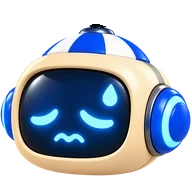
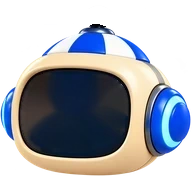
IAmiguinho M6: olhos vivos (rosto em vetor que pisca, olha e muda de expressão)
Claude-Session: https://claude.ai/code/session_01EzS9DxgjdBzP7RojM8YLwB

Changed region(s): [[0.0938, 0.4261, 0.6875, 0.8523]]

diff --git a/src/lib/iamiguinhoRosto.ts b/src/lib/iamiguinhoRosto.ts
@@ -1,0 +1,78 @@
+/**
+ * O rosto do IAmiguinho em vetor (a luz azul-clara da tela): as 12 expressões da ficha, desenhadas para caber na tela
+ * das imagens finais (o vidro foi limpo por art/iamiguinho/limpar-tela.py). Os olhos ficam num grupo próprio, para
+ * piscar e olhar para os lados sem redesenhar a expressão. viewBox 200 × 140, centro da tela em (100, 70).
+ */
+export type Expressao = 'sorriso-confiante' | 'feliz' | 'comemorando' | 'orgulhoso' | 'curioso' | 'pensando' | 'surpreso' | 'sem-jeito' | 'tonto' | 'perdido' | 'sonolento' | 'piscando';
+export const EXPRESSOES: Expressao[] = ['sorriso-confiante', 'feliz', 'comemorando', 'orgulhoso', 'curioso', 'pensando', 'surpreso', 'sem-jeito', 'tonto', 'perdido', 'sonolento', 'piscando'];
+
+const EX = 56, DX = 144, OY = 54, BY = 96, SW = 15;
+const f = (n: number) => n.toFixed(1);
+const arco = (cx: number, cy: number, r = 22, up = true) => `<path d="M${f(cx - r)} ${f(cy + (up ? 8 : -8))}Q${f(cx)} ${f(cy + (up ? -r * 1.2 : r * 1.2))} ${f(cx + r)} ${f(cy + (up ? 8 : -8))}" fill="none" stroke-width="${SW}" stroke-linecap="round"/>`;
+const meiaLua = (cx: number, cy: number, w = 64, h = 30) => `<path d="M${f(cx - w / 2)} ${f(cy - h / 2)}H${f(cx + w / 2)}Q${f(cx + w / 2)} ${f(cy + h * 0.95)} ${f(cx)} ${f(cy + h * 0.95)}Q${f(cx - w / 2)} ${f(cy + h * 0.95)} ${f(cx - w / 2)} ${f(cy - h / 2)}Z" stroke="none"/>`;
+const ponto = (cx: number, cy: number, r = 10) => `<circle cx="${f(cx)}" cy="${f(cy)}" r="${r}" stroke="none"/>`;
+const anel = (cx: number, cy: number, r = 20) => `<circle cx="${f(cx)}" cy="${f(cy)}" r="${r}" fill="none" stroke-width="${SW - 3}"/>`;
+const linha = (x1: number, y1: number, x2: number, y2: number, w = SW) => `<path d="M${f(x1)} ${f(y1)}L${f(x2)} ${f(y2)}" fill="none" stroke-width="${w}" stroke-linecap="round"/>`;
+const estrela = (cx: number, cy: number, r = 24, pts = 5, ins = 0.45, rot = -90) => {
+  let d = '';
+  for (let i = 0; i < pts * 2; i++) { const a = ((rot + (i * 180) / pts) * Math.PI) / 180, rr = i % 2 ? r * ins : r; d += `${i ? 'L' : 'M'}${f(cx + Math.cos(a) * rr)} ${f(cy + Math.sin(a) * rr)}`; }
+  return `<path d="${d}Z" stroke="none" stroke-linejoin="round"/>`;
+};
+const brilho = (cx: number, cy: number, r = 10) => estrela(cx, cy, r, 4, 0.28, 0);
+const espiral = (cx: number, cy: number, r = 22) => {
+  let d = '';
+  for (let i = 0; i <= 60; i++) { const t = i / 60, a = t * 2.1 * Math.PI * 2, rr = 2 + t * (r - 2); d += `${i ? 'L' : 'M'}${f(cx + Math.cos(a) * rr)} ${f(cy + Math.sin(a) * rr)}`; }
+  return `<path class="iam-espiral" d="${d}" fill="none" stroke-width="7" stroke-linecap="round" style="transform-origin:${cx}px ${cy}px"/>`;
+};
+const interrogacao = (cx: number, cy: number) => `<path d="M${cx - 12} ${cy - 12}Q${cx - 12} ${cy - 28} ${cx + 1} ${cy - 28}Q${cx + 15} ${cy - 28} ${cx + 15} ${cy - 15}Q${cx + 15} ${cy - 6} ${cx + 4} ${cy}Q${cx} ${cy + 4} ${cx} ${cy + 10}" fill="none" stroke-width="${SW - 4}" stroke-linecap="round" stroke-linejoin="round"/>${ponto(cx, cy + 24, 6)}`;
+const onda = (cx: number, cy: number, w = 50, a = 7) => `<path d="M${cx - w / 2} ${cy}q${w / 8} ${-a} ${w / 4} 0t${w / 4} 0t${w / 4} 0t${w / 4} 0" fill="none" stroke-width="${SW - 4}" stroke-linecap="round"/>`;
+const gota = (cx: number, cy: number) => `<path d="M${cx} ${cy - 13}Q${cx + 9} ${cy} ${cx + 8} ${cy + 5}A8 8 0 0 1 ${cx - 8} ${cy + 5}Q${cx - 9} ${cy} ${cx} ${cy - 13}Z" stroke="none"/>`;
+const zz = (x: number, y: number, s = 1) => `<path d="M${x} ${y}h${12 * s}l${-12 * s} ${12 * s}h${12 * s}" fill="none" stroke-width="${5 * s}" stroke-linecap="round" stroke-linejoin="round"/>`;
+
+/** Cada expressão: olhos (piscam e olham para os lados) e o resto (boca e detalhes). */
+const FORMAS: Record<Expressao, { o: () => string; r: () => string }> = {
+  'sorriso-confiante': { o: () => arco(EX, OY) + arco(DX, OY), r: () => meiaLua(100, BY) },
+  feliz: { o: () => arco(EX, OY - 2, 24) + arco(DX, OY - 2, 24), r: () => meiaLua(100, BY - 2, 78, 36) },
+  comemorando: { o: () => estrela(EX, OY - 2) + estrela(DX, OY - 2), r: () => meiaLua(100, BY, 72, 34) },
+  orgulhoso: { o: () => arco(EX, OY) + arco(DX, OY), r: () => brilho(DX + 36, OY - 32, 11) + `<path d="M70 ${BY - 8}Q104 ${BY + 22} 134 ${BY - 14}" fill="none" stroke-width="${SW}" stroke-linecap="round"/>` },
+  curioso: { o: () => anel(EX, OY, 21) + ponto(EX, OY, 7) + ponto(DX, OY + 2, 11), r: () => `<circle cx="106" cy="${BY + 2}" r="9" fill="none" stroke-width="9"/>` },
+  pensando: { o: () => '', r: () => `<g class="iam-pensa">${ponto(70, OY + 4, 11)}${ponto(100, OY + 4, 11)}${ponto(130, OY + 4, 11)}</g>` + linha(88, BY + 6, 118, BY + 2, 10) },
+  surpreso: { o: () => anel(EX, OY - 2, 22) + anel(DX, OY - 2, 22), r: () => `<ellipse cx="100" cy="${BY + 4}" rx="11" ry="14" fill="none" stroke-width="10"/>` },
+  'sem-jeito': { o: () => arco(EX, OY - 4, 20, false) + arco(DX, OY - 4, 20, false), r: () => onda(100, BY + 4, 48, 6) + gota(DX + 38, OY - 30) },
+  tonto: { o: () => '', r: () => espiral(EX, OY, 24) + espiral(DX, OY, 24) + onda(100, BY + 6, 52, 8) },
+  perdido: { o: () => '', r: () => interrogacao(EX, OY) + interrogacao(DX, OY) + linha(90, BY + 8, 110, BY + 8, 10) },
+  sonolento: { o: () => '', r: () => linha(EX - 20, OY + 6, EX + 20, OY + 6) + linha(DX - 20, OY + 6, DX + 20, OY + 6) + `<ellipse cx="100" cy="${BY + 6}" rx="9" ry="6" stroke="none"/>` + zz(DX + 26, OY - 32, 1) + zz(DX + 42, OY - 46, 0.7) },
+  piscando: { o: () => '', r: () => arco(EX, OY) + ponto(DX, OY + 2, 12) + meiaLua(100, BY, 62, 28) },
+};
+/** Olhos fechados (o meio da piscada): dois traços. */
+const FECHADOS = linha(EX - 18, OY + 4, EX + 18, OY + 4) + linha(DX - 18, OY + 4, DX + 18, OY + 4);
+
+/**
+ * O SVG interno (sem a tag <svg>) da expressão: a luz por cima do brilho borrado. Os olhos ficam em
+ * <g class="iam-olhos"> (o CSS faz piscar e olhar). id: um id único na página para o filtro do brilho.
+ */
+export function rosto(e: Expressao, id = 'iam-brilho', opts: { fechados?: boolean } = {}): string {
+  const fma = FORMAS[e] ?? FORMAS['sorriso-confiante'];
+  const olhos = fma.o();
+  const g = (olhos ? `<g class="iam-olhos">${opts.fechados ? FECHADOS : olhos}</g>` : '') + fma.r();
+  return `<defs><filter id="${id}" x="-40%" y="-40%" width="180%" height="180%"><feGaussianBlur stdDeviation="6"/></filter></defs>`
+    + `<g fill="#9CEBFF" stroke="#9CEBFF"><g filter="url(#${id})" opacity=".9" fill="#38C8FF" stroke="#38C8FF">${g}</g>${g}</g>`;
+}
+
+/** A expressão de cada imagem quando nada está acontecendo (as caras têm o nome da expressão). */
+const POSE_EXPRESSAO: Record<string, Expressao> = {
+  acenando: 'feliz', atrasado: 'surpreso', cabo: 'sem-jeito', controle: 'feliz', dormindo: 'sonolento', espiando: 'sorriso-confiante',
+  'espiando-placa': 'sorriso-confiante', heroi: 'orgulhoso', mapa: 'perdido', pacote: 'sem-jeito', placa: 'feliz', planando: 'sorriso-confiante', trofeu: 'comemorando',
+};
+export function expressaoDe(img: string): Expressao {
+  if (img.startsWith('cara-')) { const e = img.slice(5) as Expressao; return EXPRESSOES.includes(e) ? e : 'sorriso-confiante'; }
+  return POSE_EXPRESSAO[img.replace(/^pose-/, '')] ?? 'sorriso-confiante';
+}
+
+/** Às vezes, sem motivo, ele faz outra cara por um instante (e volta). Nunca dormindo. */
+const DE_PASSAGEM: Partial<Record<Expressao, Expressao[]>> = {
+  'sorriso-confiante': ['piscando', 'feliz', 'curioso'], feliz: ['piscando', 'comemorando', 'sorriso-confiante'], comemorando: ['feliz', 'piscando'],
+  orgulhoso: ['piscando', 'sorriso-confiante'], curioso: ['pensando', 'surpreso'], pensando: ['curioso', 'perdido'], surpreso: ['sem-jeito', 'curioso'],
+  'sem-jeito': ['piscando', 'pensando'], perdido: ['pensando', 'sem-jeito'], piscando: ['sorriso-confiante', 'feliz'],
+};
+export const dePassagem = (e: Expressao, sorte = Math.random()): Expressao | null => { const l = DE_PASSAGEM[e]; return l ? l[Math.floor(sorte * l.length) % l.length] : null; };

diff --git a/src/components/IAmiguinho.tsx b/src/components/IAmiguinho.tsx
@@ -1,37 +1,65 @@
 /**
  * IAmiguinho na tela: o mascote de interface (telas vazias, 404, erro, carregamento), o balão de cameo no canto, o
  * cartão espiando e a proteção contra erro que mostra ele com o cabo na mão. As falas e as regras estão em
- * lib/iamiguinho. M6: a hélice gira de verdade (camadas separadas em public/brand/iamiguinho/anim), ele respira, um
- * toque faz a hélice engasgar, cinco deixam ele tonto, e nas épocas de festa ele aparece enfeitado.
+ * lib/iamiguinho. M6: a hélice gira de verdade (camadas separadas em public/brand/iamiguinho/anim), ele respira, o
+ * rosto é vivo (pisca, olha para os lados e muda de expressão), um toque faz a hélice engasgar, cinco deixam ele tonto,
+ * e nas épocas de festa ele aparece enfeitado.
  */
-import { Component, useEffect, useRef, useState, type CSSProperties, type ReactNode } from 'react';
+import { Component, useEffect, useId, useRef, useState, type CSSProperties, type ReactNode } from 'react';
 import { createPortal } from 'react-dom';
 import { useStore } from '../data/store';
 import { CARA, CUTUCAR, POSE, TONTO, epocaAtual, falaDaBiblioteca, liberarCameo, pedirCameo, sortear, type Cameo, type Epoca, type Fatos, type Interface } from '../lib/iamiguinho';
 import { HELICE } from '../lib/iamiguinhoHelice';
+import { TELA } from '../lib/iamiguinhoTela';
+import { dePassagem, expressaoDe, rosto, type Expressao } from '../lib/iamiguinhoRosto';
 
 const useModo = () => useStore((s) => s.prefs.iamiguinho ?? 'normal');
 
 /* ---- A figura animada ------------------------------------------------------------------------------------------ */
 
 type Estado = 'normal' | 'engasgo' | 'tonto';
+const movimentoReduzido = () => {
+  try { return document.documentElement.dataset.motion === 'reduzidas' || window.matchMedia('(prefers-reduced-motion: reduce)').matches; } catch { return false; }
+};
 /**
- * Uma imagem dele (pose-* ou cara-*) com a hélice girando por cima do corpo, no eixo e na inclinação de cada imagem.
- * Com "animações reduzidas" fica parada, igual à imagem original. Com onCutucar, vira botão: um toque engasga a hélice
- * (trava, dá um tranco e solta fumaça); cinco toques em poucos segundos deixam ele tonto.
+ * Uma imagem dele (pose-* ou cara-*) com a hélice girando por cima do corpo, no eixo e na inclinação de cada imagem, e
+ * o rosto desenhado na tela: pisca, olha para os lados, de vez em quando faz outra cara, fica curioso com o mouse em
+ * cima, surpreso com um toque e tonto com cinco. Com "animações reduzidas" fica parado (o rosto só muda nos toques).
+ * expressao troca a cara de repouso da imagem.
  */
-export function Figura({ img, className = '', width, height, parada = false, enfeite = true, onCutucar, lazy = true, alt = '' }: {
+export function Figura({ img, className = '', width, height, parada = false, enfeite = true, onCutucar, lazy = true, alt = '', expressao }: {
   img: string; className?: string; width: number; height: number; parada?: boolean; enfeite?: boolean;
-  onCutucar?: (tonto: boolean) => void; lazy?: boolean; alt?: string;
+  onCutucar?: (tonto: boolean) => void; lazy?: boolean; alt?: string; expressao?: Expressao;
 }) {
   const [estado, setEstado] = useState<Estado>('normal');
+  const [cara, setCara] = useState<Expressao | null>(null);
   const toques = useRef<number[]>([]);
   const timer = useRef<ReturnType<typeof setTimeout>>();
   useEffect(() => () => clearTimeout(timer.current), []);
   const [epoca] = useState<Epoca | null>(() => (enfeite ? epocaAtual() : null));
-  const src = estado === 'tonto' && img.startsWith('cara-') ? 'cara-tonto' : img;
+  const [atraso] = useState(() => `${(-Math.random() * 9).toFixed(2)}s`);
+  const fid = `iam-b${useId().replace(/[^a-zA-Z0-9_-]/g, '')}`;
+  const src = img;
   const h = HELICE[src];
+  const t = h ? TELA[src] : undefined;
+  const base = expressao ?? expressaoDe(src);
+  // De vez em quando, outra cara por um instante.
+  useEffect(() => {
+    if (!t || parada || base === 'sonolento') return;
+    let volta: ReturnType<typeof setTimeout> | undefined;
+    let proximo: ReturnType<typeof setTimeout>;
+    const agenda = () => {
+      proximo = setTimeout(() => {
+        const e = document.visibilityState === 'visible' && !movimentoReduzido() ? dePassagem(base) : null;
+        if (e) { setCara((c) => c ?? e); volta = setTimeout(() => setCara((c) => (c === e ? null : c)), 1900); }
+        agenda();
+      }, 7000 + Math.random() * 8000);
+    };
+    agenda();
+    return () => { clearTimeout(proximo); clearTimeout(volta); };
+  }, [t, parada, base]);
   const tap = () => {
+    if (estado === 'tonto') return; // deixa ele se recuperar
     const agora = Date.now();
     toques.current = [...toques.current.filter((t) => agora - t < 4000), agora];
     const tonto = toques.current.length >= 5;
@@ -41,19 +69,26 @@ export function Figura({ img, className = '', width, height, parada = false, enf
     timer.current = setTimeout(() => setEstado('normal'), tonto ? 2800 : 1400);
     onCutucar?.(tonto);
   };
+  const espiar = (e: { pointerType: string }) => { if (e.pointerType === 'mouse' && !parada && base !== 'sonolento') setCara(base === 'curioso' ? 'surpreso' : 'curioso'); };
+  const face: Expressao = estado === 'tonto' ? 'tonto' : estado === 'engasgo' ? 'surpreso' : (cara ?? base);
   const imgProps = { alt: '', width, height, decoding: 'async' as const, loading: lazy ? ('lazy' as const) : undefined, draggable: false };
   const corpo = h ? (
     <>
       <img className="iam-fig__corpo" src={`/brand/iamiguinho/anim/${src}-corpo.webp`} {...imgProps} />
       <img className="iam-fig__helice" src={`/brand/iamiguinho/anim/${src}-helice.webp`} {...imgProps}
         style={{ transformOrigin: `${h.x}% ${h.y}%`, '--iam-a': `${h.a}deg` } as CSSProperties} />
+      {t && (
+        <svg key={face} className="iam-rosto" viewBox="0 0 200 140" aria-hidden="true" dangerouslySetInnerHTML={{ __html: rosto(face, fid) }}
+          style={{ left: `${t.x}%`, top: `${t.y}%`, width: `${t.w}%`, transform: `translate(-50%, -50%) rotate(${t.a}deg)`, '--iam-atraso': atraso } as CSSProperties} />
+      )}
       {estado === 'engasgo' && <span className="iam-fumaca" style={{ left: `${h.x}%`, top: `${h.y}%` }} aria-hidden="true"><i /><i /><i /></span>}
     </>
   ) : <img className="iam-fig__corpo" src={`/brand/iamiguinho/${src}.webp`} {...imgProps} />;
   const cls = `iam-fig is-${estado}${parada ? ' is-parada' : ''} ${className}`;
   const conteudo = <>{corpo}{epoca && <Enfeite epoca={epoca} />}</>;
-  if (!onCutucar) return <span className={cls} role={alt ? 'img' : undefined} aria-label={alt || undefined} aria-hidden={alt ? undefined : true}>{conteudo}</span>;
-  return <button type="button" className={`${cls} iam-fig--btn`} onClick={tap} aria-label={alt ? `${alt}. Toque para cutucar o IAmiguinho` : 'Cutucar o IAmiguinho'}>{conteudo}</button>;
+  const olhar = { onPointerEnter: espiar, onPointerLeave: () => setCara(null) };
+  if (!onCutucar) return <span className={cls} role={alt ? 'img' : undefined} aria-label={alt || undefined} aria-hidden={alt ? undefined : true} {...olhar}>{conteudo}</span>;
+  return <button type="button" className={`${cls} iam-fig--btn`} onClick={tap} {...olhar} aria-label={alt ? `${alt}. Toque para cutucar o IAmiguinho` : 'Cutucar o IAmiguinho'}>{conteudo}</button>;
 }
 
 /** O enfeite da época, desenhado ao lado dele (nunca por cima do rosto). */

diff --git a/src/styles/iamiguinho.css b/src/styles/iamiguinho.css
@@ -115,6 +115,25 @@ html[data-motion='reduzidas'] .iam-espia__pose, html[data-motion='reduzidas'] .i
 .iam-pref .iam-fig { width: 56px; }
 .ar-buddy .iam-fig { width: 40px; }
 .iam-espia__pose.iam-fig { animation: iam-espia 0.6s cubic-bezier(0.2, 0.8, 0.3, 1.2) both; }
+.iam-rosto { position: absolute; height: auto; aspect-ratio: 200 / 140; overflow: visible; pointer-events: none; animation: iam-liga 0.2s ease-out; }
+.iam-rosto .iam-olhos { transform-box: fill-box; transform-origin: center; animation: iam-olhar 9s ease-in-out infinite; animation-delay: var(--iam-atraso, 0s); }
+.iam-rosto .iam-pensa circle { transform-box: fill-box; transform-origin: center; animation: iam-pensa 1.1s ease-in-out infinite; }
+.iam-rosto .iam-pensa circle:nth-child(2) { animation-delay: 0.15s; }
+.iam-rosto .iam-pensa circle:nth-child(3) { animation-delay: 0.3s; }
+.iam-rosto .iam-espiral { animation: iam-espiral 1.2s linear infinite; }
+.iam-fig.is-parada .iam-rosto .iam-olhos { animation: none; }
+.iam-perfil__momentos li:not(:hover) .iam-rosto * { animation-play-state: paused; }
+@keyframes iam-liga { from { opacity: 0.35; filter: brightness(1.6); } to { opacity: 1; filter: none; } }
+@keyframes iam-olhar {
+  0%, 27%, 33%, 47% { transform: translate(0, 0) scaleY(1); }
+  30% { transform: translate(0, 0) scaleY(0.1); }
+  52%, 61% { transform: translate(-6px, 0) scaleY(1); }
+  66%, 74% { transform: translate(6px, 0) scaleY(1); }
+  79%, 87%, 93%, 100% { transform: translate(0, 0) scaleY(1); }
+  90% { transform: translate(0, 0) scaleY(0.1); }
+}
+@keyframes iam-pensa { 0%, 60%, 100% { transform: translateY(0); opacity: 0.55; } 30% { transform: translateY(-9px); opacity: 1; } }
+@keyframes iam-espiral { to { transform: rotate(360deg); } }
 @keyframes iam-respira { 0%, 100% { transform: translateY(0); } 50% { transform: translateY(-3px); } }
 @keyframes iam-gira {
   0% { transform: rotate(var(--iam-a, 0deg)) scaleX(1) rotate(calc(var(--iam-a, 0deg) * -1)); }

diff --git a/src/lib/iamiguinhoTela.ts b/src/lib/iamiguinhoTela.ts
@@ -1,0 +1,28 @@
+/** Gerado por art/iamiguinho/limpar-tela.py: a tela do rosto em cada imagem (centro e largura em %, inclinação em graus). */
+export const TELA: Record<string, { x: number; y: number; w: number; a: number }> = {
+  'cara-comemorando': { x: 39.58, y: 63.66, w: 58.33, a: 0.0 },
+  'cara-curioso': { x: 40.89, y: 63.74, w: 58.85, a: 0.0 },
+  'cara-feliz': { x: 40.1, y: 63.87, w: 58.33, a: 0.0 },
+  'cara-orgulhoso': { x: 39.58, y: 63.37, w: 58.33, a: 0.0 },
+  'cara-pensando': { x: 40.1, y: 63.79, w: 58.33, a: 0.0 },
+  'cara-perdido': { x: 39.84, y: 63.35, w: 58.85, a: 0.0 },
+  'cara-piscando': { x: 39.84, y: 63.87, w: 57.81, a: 0.0 },
+  'cara-sem-jeito': { x: 38.54, y: 63.92, w: 57.29, a: 0.0 },
+  'cara-sonolento': { x: 39.84, y: 64.0, w: 58.85, a: 0.0 },
+  'cara-sorriso-confiante': { x: 40.89, y: 63.47, w: 58.85, a: 0.0 },
+  'cara-surpreso': { x: 39.58, y: 63.56, w: 58.33, a: 0.0 },
+  'cara-tonto': { x: 41.2, y: 63.5, w: 59.55, a: 3.6 },
+  'pose-acenando': { x: 42.18, y: 35.72, w: 52.38, a: -9.5 },
+  'pose-atrasado': { x: 59.73, y: 36.72, w: 42.87, a: 12.5 },
+  'pose-cabo': { x: 47.37, y: 39.73, w: 43.85, a: -11.3 },
+  'pose-controle': { x: 49.65, y: 43.56, w: 52.35, a: -14.0 },
+  'pose-dormindo': { x: 49.66, y: 43.29, w: 55.75, a: -7.1 },
+  'pose-espiando': { x: 60.68, y: 42.22, w: 35.23, a: 23.2 },
+  'pose-espiando-placa': { x: 60.68, y: 42.22, w: 35.23, a: 23.2 },
+  'pose-heroi': { x: 50.26, y: 29.68, w: 45.64, a: 16.7 },
+  'pose-mapa': { x: 46.03, y: 36.22, w: 50.54, a: 15.9 },
+  'pose-pacote': { x: 50.24, y: 37.09, w: 54.62, a: 8.1 },
+  'pose-placa': { x: 48.88, y: 33.33, w: 51.82, a: 0.0 },
+  'pose-planando': { x: 47.49, y: 39.53, w: 41.81, a: 18.4 },
+  'pose-trofeu': { x: 40.72, y: 36.63, w: 36.9, a: -26.6 },
+};

diff --git a/src/lib/iamiguinhoRosto.test.ts b/src/lib/iamiguinhoRosto.test.ts
@@ -1,0 +1,36 @@
+import { test } from 'node:test';
+import assert from 'node:assert/strict';
+import { EXPRESSOES, dePassagem, expressaoDe, rosto } from './iamiguinhoRosto';
+import { TELA } from './iamiguinhoTela';
+import { HELICE } from './iamiguinhoHelice';
+
+test('toda imagem animada tem a tela medida e uma cara de repouso', () => {
+  for (const img of Object.keys(HELICE)) {
+    const t = TELA[img];
+    assert.ok(t, `sem tela: ${img}`);
+    assert.ok(t.w > 30 && t.w < 65 && Math.abs(t.a) < 30, `tela estranha: ${img}`);
+    assert.ok(EXPRESSOES.includes(expressaoDe(img)), img);
+  }
+  assert.equal(expressaoDe('cara-tonto'), 'tonto');
+  assert.equal(expressaoDe('pose-dormindo'), 'sonolento');
+  assert.equal(expressaoDe('pose-que-nao-existe'), 'sorriso-confiante');
+});
+
+test('as 12 expressões desenham com o filtro do próprio id', () => {
+  for (const e of EXPRESSOES) {
+    const s = rosto(e, 'iam-bx1');
+    assert.match(s, /<filter id="iam-bx1"/);
+    assert.match(s, /url\(#iam-bx1\)/);
+    assert.ok(!s.includes('NaN') && !s.includes('undefined'), e);
+  }
+  assert.match(rosto('feliz'), /class="iam-olhos"/);
+  assert.ok(!rosto('sonolento').includes('iam-olhos'), 'dormindo não pisca');
+});
+
+test('de passagem: outra cara, nunca dormindo nem tonto', () => {
+  assert.equal(dePassagem('sonolento'), null);
+  for (const e of EXPRESSOES) for (const s of [0, 0.5, 0.99]) {
+    const p = dePassagem(e, s);
+    if (p) { assert.notEqual(p, e); assert.ok(p !== 'tonto' && p !== 'sonolento'); }
+  }
+});

diff --git a/art/iamiguinho/limpar-tela.py b/art/iamiguinho/limpar-tela.py
@@ -1,0 +1,49 @@
+# IAmiguinho M6, os olhos vivos: apaga a luz do rosto (olhos e boca) da camada do corpo e mede a tela, para o site
+# desenhar o rosto em vetor por cima (src/lib/iamiguinhoRosto.ts) e trocar de expressão, piscar e olhar para os lados.
+# Rode depois do separar-helice.py, a partir das imagens originais:
+#   python3 art/iamiguinho/separar-helice.py && python3 art/iamiguinho/limpar-tela.py
+# Muda public/brand/iamiguinho/anim/*-corpo.webp no lugar e escreve src/lib/iamiguinhoTela.ts.
+import sys, os, json, glob
+import numpy as np, cv2
+from PIL import Image
+ROOT = os.path.join(os.path.dirname(os.path.abspath(__file__)), '..', '..')
+src = out = os.path.join(ROOT, 'public', 'brand', 'iamiguinho', 'anim')
+names = sys.argv[1:] or None
+meta = {}
+for path in sorted(glob.glob(os.path.join(src, '*-corpo.webp'))):
+    name = os.path.basename(path)[:-len('-corpo.webp')]
+    if names and name not in names: continue
+    im = np.array(Image.open(path).convert('RGBA')); H, W = im.shape[:2]
+    rgb = im[:, :, :3]; a = im[:, :, 3]
+    hsv = cv2.cvtColor(rgb, cv2.COLOR_RGB2HSV)  # h 0..179, s,v 0..255
+    h, s, v = hsv[:, :, 0].astype(int), hsv[:, :, 1].astype(int), hsv[:, :, 2].astype(int)
+    lim = int(H * (0.6 if name.startswith('pose-') else 1.0))
+    # Vidro: escuro e azulado (ou quase preto), opaco.
+    dark = (a > 200) & (v < 70) & ((h > 95) & (h < 135) | (v < 35))
+    dark[lim:, :] = False
+    n, lab, st, cen = cv2.connectedComponentsWithStats(dark.astype(np.uint8), 8)
+    if n < 2: meta[name] = None; continue
+    i = 1 + np.argmax(st[1:, cv2.CC_STAT_AREA])
+    tela = (lab == i).astype(np.uint8)
+    # Fecha os buracos (os olhos e a boca ficam dentro da tela).
+    cnts, _ = cv2.findContours(tela, cv2.RETR_EXTERNAL, cv2.CHAIN_APPROX_SIMPLE)
+    c = max(cnts, key=cv2.contourArea)
+    cheia = np.zeros_like(tela); cv2.drawContours(cheia, [c], -1, 1, -1)
+    # Luz: dentro da tela, tudo que não é vidro escuro (olhos, boca e o brilho em volta), menos reflexo branco.
+    luz = (cheia == 1) & (dark == 0) & (a > 0)
+    reflexo = (s < 60) & (v > 170)
+    luz &= ~reflexo
+    luz = cv2.dilate(luz.astype(np.uint8), np.ones((5, 5), np.uint8), iterations=2)
+    luz &= cv2.erode(cheia, np.ones((3, 3), np.uint8), iterations=2)
+    limpo = cv2.inpaint(rgb, luz, 7, cv2.INPAINT_TELEA)
+    outim = im.copy(); outim[:, :, :3] = np.where(luz[:, :, None] == 1, limpo, rgb)
+    Image.fromarray(outim).save(path, quality=92)
+    (cx, cy), (rw, rh), ang = cv2.minAreaRect(c)
+    if rw < rh: rw, rh, ang = rh, rw, ang + 90
+    if ang > 45: ang -= 90
+    if ang < -45: ang += 90
+    meta[name] = {'x': round(cx / W * 100, 2), 'y': round(cy / H * 100, 2), 'w': round(rw / W * 100, 2), 'h': round(rh / H * 100, 2), 'a': round(ang, 1)}
+ts = os.path.join(ROOT, 'src', 'lib', 'iamiguinhoTela.ts')
+linhas = [f"  '{k}': {{ x: {v['x']}, y: {v['y']}, w: {v['w']}, a: {v['a']} }}," for k, v in sorted(meta.items()) if v]
+open(ts, 'w').write('/** Gerado por art/iamiguinho/limpar-tela.py: a tela do rosto em cada imagem (centro e largura em %, inclinação em graus). */\nexport const TELA: Record<string, { x: number; y: number; w: number; a: number }> = {\n' + '\n'.join(linhas) + '\n};\n')
+print(len(linhas), 'telas')
